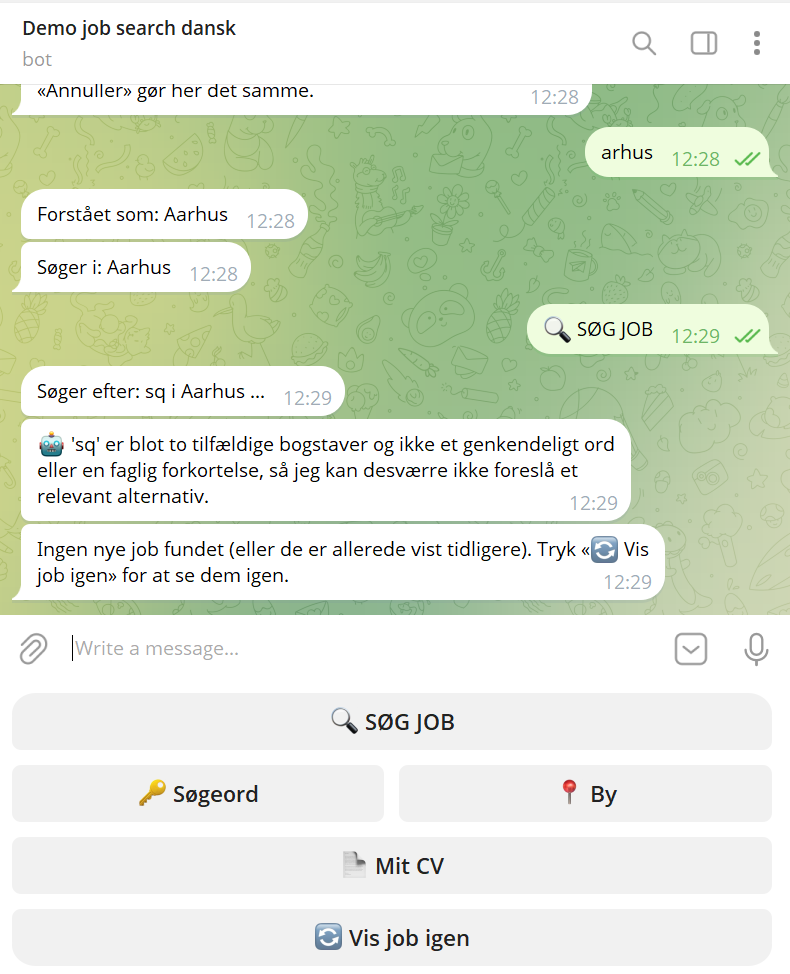
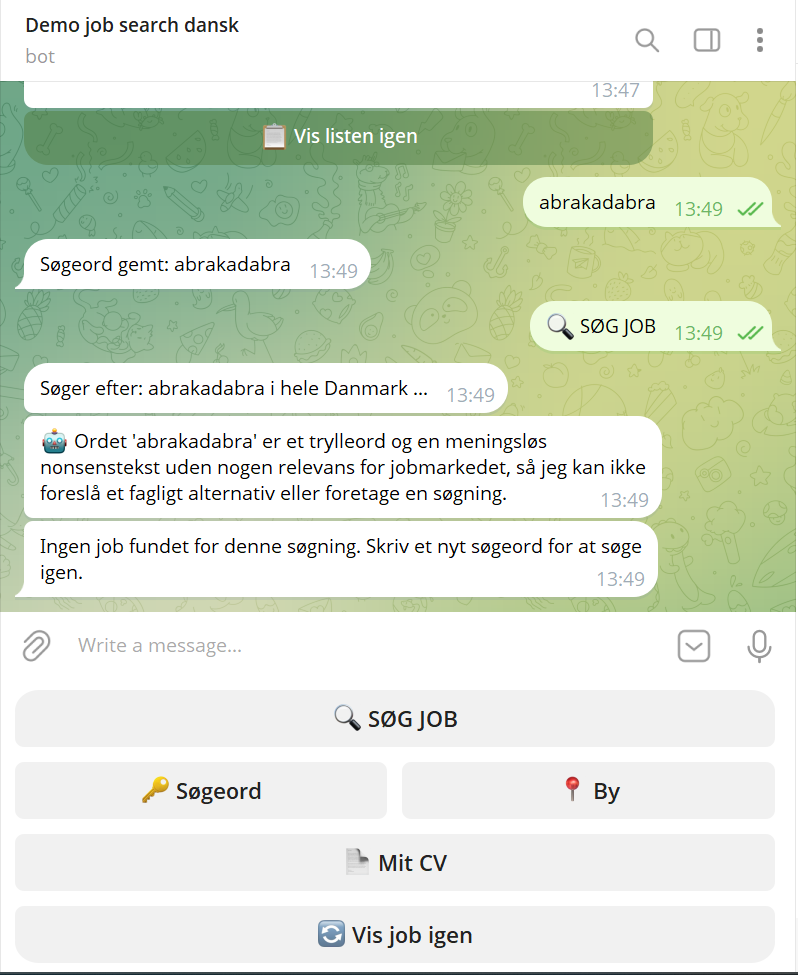
Replace stale honest-refusal screenshot with a post-fix retake
The old agentic-sq-example.png was captured before today's fix to the
"no results" message and still showed the outdated "already shown
before" wording. Replaced with a fresh "abrakadabra" run showing the
corrected text, and updated the caption/alt text to match.

diff --git a/index.html b/index.html
@@ -581,8 +581,8 @@
       </p>
     </div>
     <figure style="max-width: 420px; margin: 24px auto 0;">
-      <img src="assets/agentic-sq-example.png" alt="Skærmbillede: søgeord 'sq' (tilfældige bogstaver) afvises ærligt af botten, testet to gange">
-      <figcaption>Samme princip testet med rene tilfældige bogstaver ("sq") — afvist ærligt begge gange, i to forskellige søgninger.</figcaption>
+      <img src="assets/agentic-sq-example.png" alt="Skærmbillede: søgeordet 'abrakadabra' afvises ærligt af botten i stedet for at gætte et tilfældigt ord">
+      <figcaption>Skærmbillede af samme eksempel — botten afviser ærligt i stedet for at søge på et tilfældigt ord.</figcaption>
     </figure>
   </div>
 </section>
